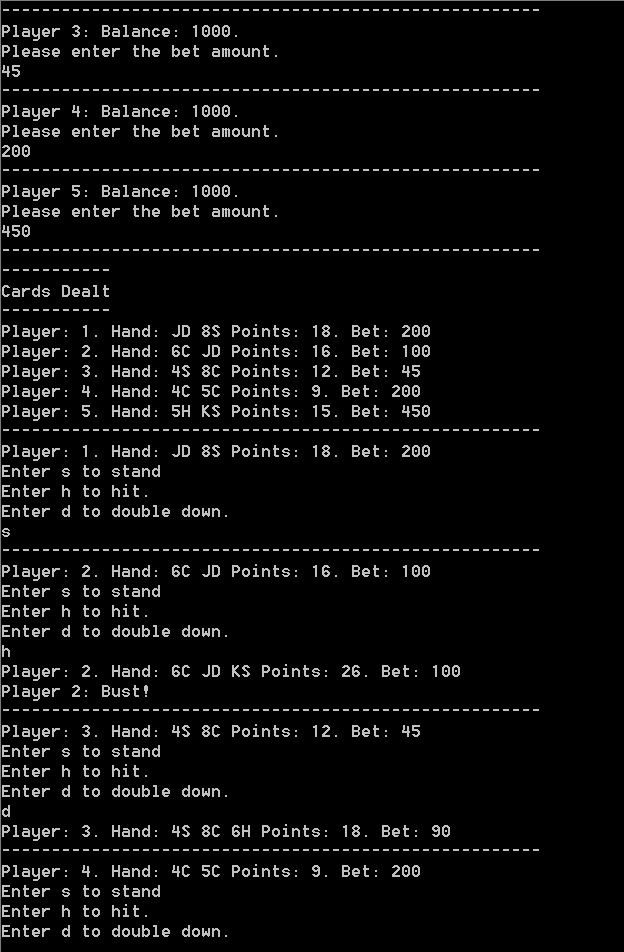
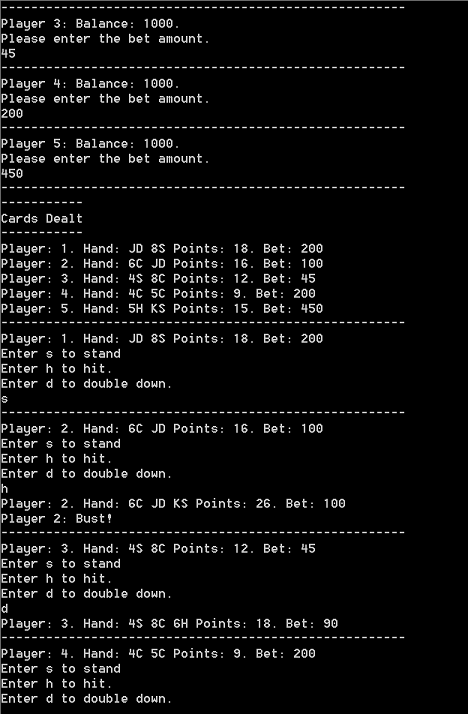
Fixed location typo, resized image

diff --git a/README.md b/README.md
@@ -6,7 +6,7 @@ You can run this game by
 
     ruby BlackjackGame.rb
 
-![There was supposed to be an image here :/](https://github.com/vishrut/blob/master/rj.png "I like the retro look")
+![There was supposed to be an image here :/](https://github.com/vishrut/Rubyjack/blob/master/rj.png "I like the retro look")
 
 Rules of the game:
 
